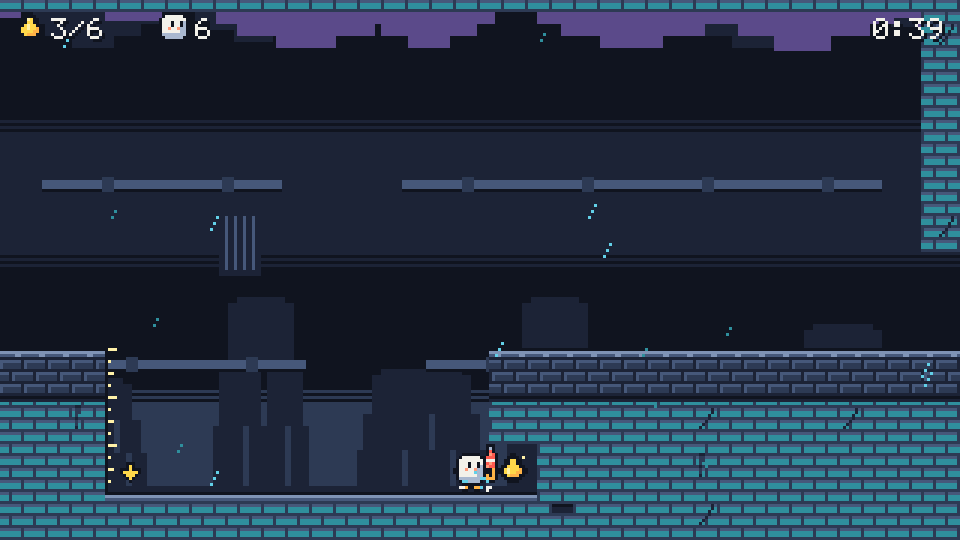
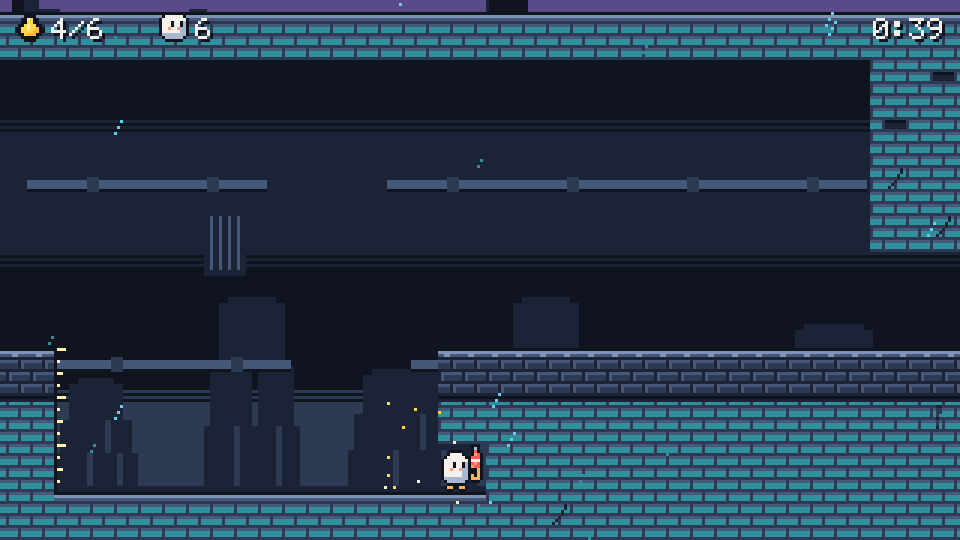
Carte 9.7 : les égouts tiennent sur un écran de haut (146 x 11), souches d'aération en décor
La caméra ne suit en hauteur que le clocher et la descente (camera::tests) ; chaque niveau à drapeau a son décor (zones::tests). Captures 97-* refaites sur ce dessin.

diff --git a/core/src/levels/egouts.rs b/core/src/levels/egouts.rs
@@ -3,14 +3,15 @@
 //! et l'eau qui monte et descend dans les bassins. Difficulté : un cran au-dessus
 //! du caniveau, celle des Gouttières ou du Marché du Monde 1.
 //!
-//! Lecture du niveau (146 x 14 tuiles), de gauche à droite :
+//! Lecture du niveau (146 x 11 tuiles, un écran de haut, voûte de briques en
+//! rangée 0), de gauche à droite :
 //! 1. le COULOIR DU PREMIER RAT (colonnes 10 à 27) : un tunnel bas (3 tuiles),
 //!    une marche plus bas que l'entrée ; le rat y patrouille. Pépin sur sa
 //!    ligne, il se dresse puis fonce : on lui saute dessus ou par-dessus. Les
 //!    marches des deux bouts le gardent dans son couloir ;
 //! 2. le BASSIN À MARÉE de la goutte (colonnes 34 à 41, 3 tuiles de fond) :
 //!    on le saute sans peine, mais la 1re goutte attend au FOND, dans une niche
-//!    du mur de droite (colonne 42, rangée 12). On y descend à marée basse et on
+//!    du mur de droite (colonne 42, rangée 9). On y descend à marée basse et on
 //!    remonte avant que l'eau ne revienne (annoncée par le repère qui clignote) ;
 //! 3. le BASSIN DU COLLECTEUR (colonnes 53 à 62), sous une voûte basse : pas
 //!    de place pour planer par-dessus. On le traverse à pied à marée basse (vite :
@@ -20,16 +21,16 @@
 //!    de la survoler, on y passe EN BARQUE, et la 2e goutte (colonne 87) attend
 //!    dans ce seul espace libre. La bordure (colonnes 96 à 98) arrête la barque ;
 //! 5. deux ÉTAGES au-dessus du couloir des rats (colonnes 104 à 127) : en
-//!    haut, la GALERIE (rangées 3 à 5), en cul-de-sac, où un rat garde la 3e
-//!    goutte (colonne 114) ; on y monte par le bloc des colonnes 101 et 102.
+//!    haut, la GALERIE (rangées 1 à 3), en cul-de-sac, où un rat garde la 3e
+//!    goutte (colonne 114) ; on y monte par la marche des colonnes 101 et 102.
 //!    En bas, le COULOIR DES RATS : deux rats et une goutte du plafond
 //!    (stalactite, colonne 118), qui tombe quand on passe dessous ;
 //! 6. la sortie : le drapeau (colonne 140).
 //!
 //! Quatre lanternes (30, 66, 99, 131), chacune sur un palier sans rat (les
 //! marches arrêtent leur patrouille). Aucune eau suspendue au-dessus d'un
-//! passage à pied. Aucun objet de décor posé (cheminées et antennes sont des
-//! toits) : les tuyaux et la grille du fond viennent du thème (`Theme::Egouts`).
+//! passage à pied. Décor : deux souches d'aération (`H`, au départ et à
+//! l'arrivée) ; les tuyaux et la grille du fond viennent du thème.
 
 use crate::levels::GenreNiveau;
 use crate::zones::{InfosNiveau, Theme};
@@ -49,19 +50,16 @@ pub const INFOS: InfosNiveau = InfosNiveau {
     aiguilles: &[],
 };
 
-/// Dessin du niveau (146 x 14 tuiles). Légende : voir `crate::level`.
+/// Dessin du niveau (146 x 11 tuiles). Légende : voir `crate::level`.
 const ASCII: &str = r"
-BBBBBBBBBBBBBBBBBBBBBBBBBBBBBBBBBBBBBBBBBBBBBBBBBBBBBBBBBBBBBBBBBBBBBBBBBBBBBBBBBBBBBBBBBBBBBBBBBBBBBBBBBBBBBBBBBBBBBBBBBBBBBBBBBBBBBBBBBBBBBBBBBB
-BBBBBBBBBBBBBBBBBBBBBBBBBBBBBBBBBBBBBBBBBBBBBBBBBBBBBBBBBBBBBBBBBBBBBBBBBBBBBBBBBBBBBBBBBBBBBBBBBBBBBBBBBBBBBBBBBBBBBBBBBBBBBBBBBBBBBBBBBBBBBBBBBB
 BBBBBBBBBBBBBBBBBBBBBBBBBBBBBBBBBBBBBBBBBBBBBBBBBBBBBBBBBBBBBBBBBBBBBBBBBBBBBBBBBBBBBBBBBBBBBBBBBBBBBBBBBBBBBBBBBBBBBBBBBBBBBBBBBBBBBBBBBBBBBBBBBB
 ..........BBBBBBBBBBBBBBBBBB.......................BBBBBBBBBBBBBB...................BBBBBBB.........................BBBBBBBBBBBB.................B
 ..........BBBBBBBBBBBBBBBBBB.......................BBBBBBBBBBBBBB...................BBBBBBB.........................BBBBBBBBBBBB.................B
 ..........BBBBBBBBBBBBBBBBBB.......................BBBBBBBBBBBBBB...................BBBBBBB.................r.....o.BBBBBBBBBBBB.................B
 ..........BBBBBBBBBBBBBBBBBB.......................BBBBBBBBBBBBBB...................BBBBBBB.............############BBBBBBBBBBBB.................B
-..........BBBBBBBBBBBBBBBBBB.......................BBBBBBBBBBBBBB...................BBBBBBB.............BBBBBBBBBBBBBBBBBBBBBBBB.................B
-....................................................................................BBBBBBB..........##...............V..........................B
-..@...........................L...................................L....................o........###L.BB............................L........X....B
-##########.........r........######========###########==========#############~~~~}}}}}}}}}}}}}}}}BBB#####......r...........r.....##################
+....................................................................................BBBBBBB...........................V..........................B
+..@..H........................L...................................L....................o........###L.##............................L....H...X....B
+##########.........r........######========###########==========#############~~~~}}}}}}}}}}}}}}}}BBB##BB#......r...........r.....##################
 BBBBBBBBBB##################BBBBBB========BBBBBBBBBBB==========BBBBBBBBBBBBBBBBBBBBBBBBBBBBBBBBBBBBBBBBB########################BBBBBBBBBBBBBBBBBB
 BBBBBBBBBBBBBBBBBBBBBBBBBBBBBBBBBB========oBBBBBBBBBB==========BBBBBBBBBBBBBBBBBBBBBBBBBBBBBBBBBBBBBBBBBBBBBBBBBBBBBBBBBBBBBBBBBBBBBBBBBBBBBBBBBBB
 BBBBBBBBBBBBBBBBBBBBBBBBBBBBBBBBBBBBBBBBBBBBBBBBBBBBBBBBBBBBBBBBBBBBBBBBBBBBBBBBBBBBBBBBBBBBBBBBBBBBBBBBBBBBBBBBBBBBBBBBBBBBBBBBBBBBBBBBBBBBBBBBBB
